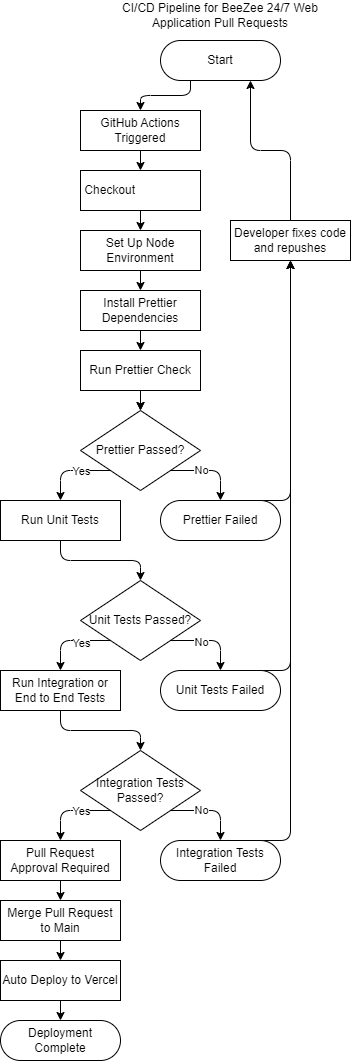
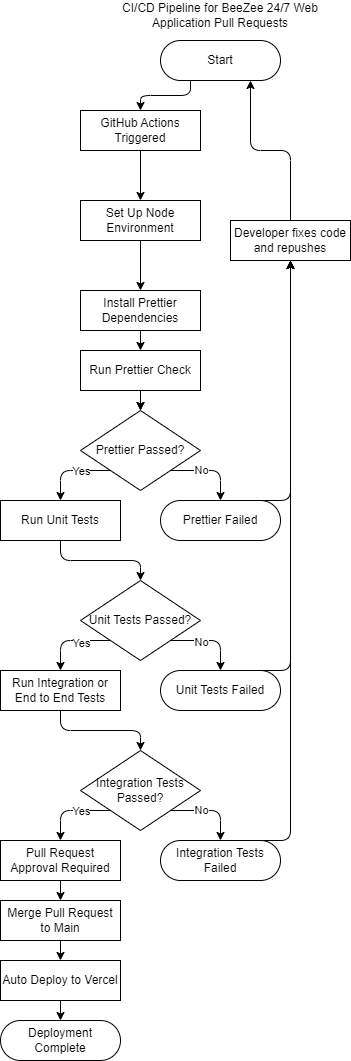
phase 1 cicd pipeline before video

Changed region(s): [[0.2279, 0.1555, 0.5128, 0.2488]]

diff --git a/admin/cipipeline/phase1.md b/admin/cipipeline/phase1.md
@@ -1,4 +1,4 @@
-# Phase 1 Status: CI/CD Pipeline Overview
+# CI/CD Pipeline Overview
 
 ## Current Functional CI/CD Stages
 
@@ -9,27 +9,22 @@
 
 ### 2. GitHub Actions triggered on PR to main branch
 
-* **Status:** Partially Functional
+* **Status:** Fully Functional
 * **Details:** The GitHub Actions workflow is set to run on `pull_request` events targeting `main`. This initiates automated checks and tests.
 
-### 3. Checkout repository (`actions/checkout`)
+### 3. Set up Node.js environment (`actions/setup-node`)
 
-* **Status:** Planned
-* **Details:** The repository is checked out using the official GitHub Action. This step ensures that the codebase is available for formatting and testing.
-
-### 4. Set up Node.js environment (`actions/setup-node`)
-
-* **Status:** Planned
+* **Status:** Functional
 * **Details:** A specific Node.js version is installed and made available to ensure consistent runtime behavior across machines.
 
-### 5. Install dependencies (Prettier only)
+### 4. Install dependencies (Prettier only)
 
-* **Status:** Planned
+* **Status:** Fully Functional
 * **Details:** Only Prettier is installed via `npm ci` or `npm install --omit=dev` to keep dependencies minimal and reduce build time.
 
 ### 6. Run Prettier in check mode (`npx prettier . --check`)
 
-* **Status:** Planned
+* **Status:** Fully Functional
 * **Details:** This enforces consistent code style. The build fails if any file is not formatted correctly, which helps standardize codebase quality.
 
 ### 7. Run unit tests
@@ -40,7 +35,7 @@
   * **Frontend:** Jest will be configured to test UI components and logic.
   * **Backend:** Mocha/Chai will be used to validate REST APIs or server logic.
 
-### 8. Run integration or end-to-end tests (Cypress)
+### 8. Run integration or end-to-end tests (Maybe use Cypress)
 
 * **Status:** Planned  
 * **Next Steps:** Add Cypress configuration for UI interaction tests, such as user profile flows and card creation validation.
